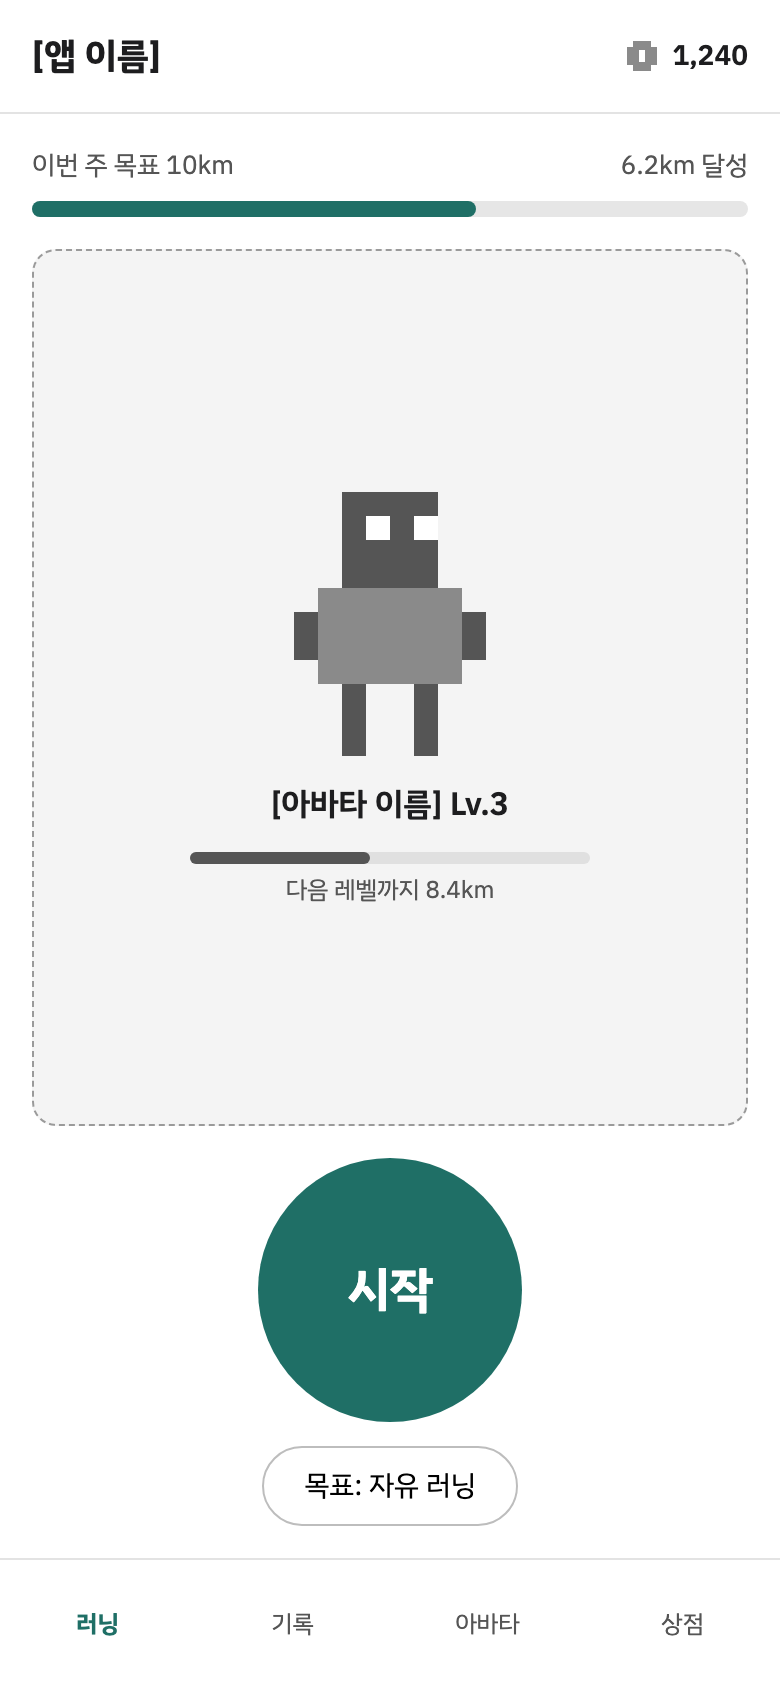
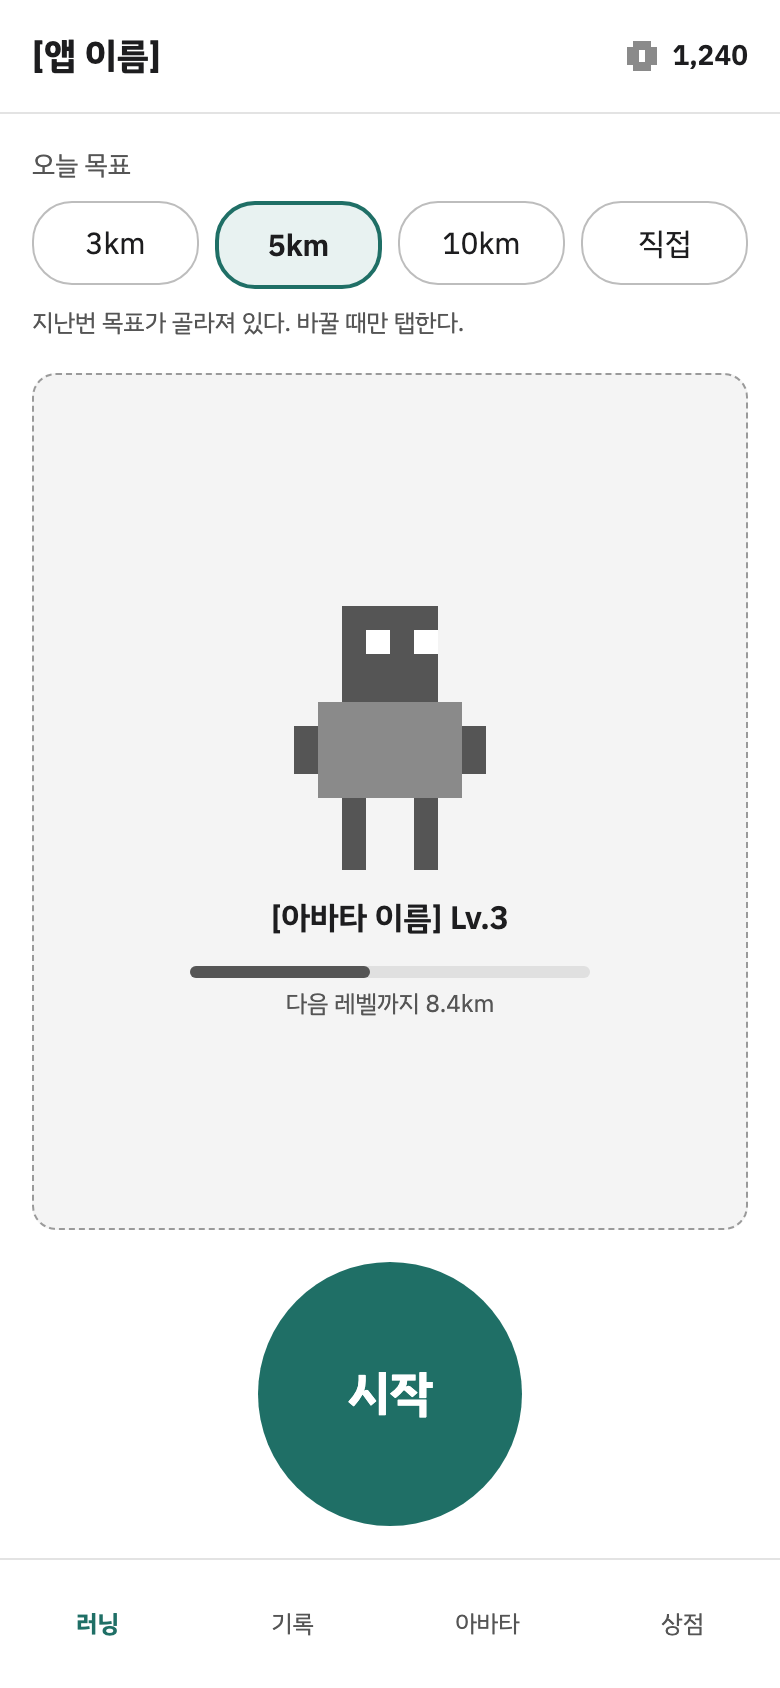
docs: 와이어프레임을 오늘 목표·달성 보너스 규칙에 맞춤
- 홈: 이번 주 목표 카드·자유 러닝 버튼 대신 오늘 목표 칩(3·5·10km·직접)
- 목표 선택: 거리·시간·자유 탭 대신 직접 입력 창(3~100km)
- 보상: 거리 보상과 달성 보너스 두 줄, 연속 러닝 줄 제거
- 업적: 주간 목표 배지를 목표 달성 배지로
- 시안 README 에 주간 목표 부분은 쓰지 않는다고 적음

Changed region(s): [[0.2462, 0.2773, 0.6462, 0.6161], [0.0308, 0.0924, 0.9538, 0.2156], [0.3077, 0.6777, 0.6769, 0.9242]]

diff --git a/design/wireframes/Goal.html b/design/wireframes/Goal.html
@@ -2,7 +2,7 @@
 <html lang="ko">
 <head>
 <meta charset="utf-8">
-<title>목표 선택</title>
+<title>목표 직접 입력</title>
 </head>
 <body>
 <link rel="preconnect" href="https://fonts.googleapis.com">
@@ -11,26 +11,24 @@
 body{margin:0;font-family:'IBM Plex Sans KR',system-ui,sans-serif;color:#1d1d1f}
 a{color:#1f6f66}a:hover{color:#174f49}
 </style>
-<div style="width: 390px; height: 844px; box-sizing: border-box; background: #8f8f8f; display: flex; flex-direction: column; justify-content: flex-end">
-  <div style="background: #ffffff; border-radius: 20px 20px 0 0; padding: 12px 20px 32px; display: flex; flex-direction: column; gap: 16px">
-    <div style="width: 40px; height: 4px; border-radius: 2px; background: #cccccc; align-self: center"></div>
-    <div style="font-size: 20px; font-weight: 700">오늘의 목표</div>
-    <div style="display: grid; grid-template-columns: repeat(3, minmax(0, 1fr)); gap: 8px">
-      <button type="button" style="height: 48px; border-radius: 8px; border: 2px solid #1f6f66; background: #e8f2f1; font-family: inherit; font-size: 15px; font-weight: 600">거리</button>
-      <button type="button" style="height: 48px; border-radius: 8px; border: 1px solid #bdbdbd; background: #ffffff; font-family: inherit; font-size: 15px">시간</button>
-      <button type="button" style="height: 48px; border-radius: 8px; border: 1px solid #bdbdbd; background: #ffffff; font-family: inherit; font-size: 15px">자유</button>
+<div style="width: 390px; height: 844px; box-sizing: border-box; background: #8f8f8f; display: flex; flex-direction: column; justify-content: center; padding: 0 28px">
+  <div style="background: #ffffff; border-radius: 20px; padding: 24px 20px 16px; display: flex; flex-direction: column; gap: 16px">
+    <div style="font-size: 20px; font-weight: 700">오늘 목표</div>
+    <div style="display: flex; align-items: baseline; gap: 8px; padding: 8px 0; border-bottom: 2px solid #1f6f66">
+      <span style="flex: 1; font-size: 40px; font-weight: 700; line-height: 1">7</span>
+      <span style="font-size: 16px; color: #555555">km</span>
     </div>
-    <div style="display: flex; flex-direction: column; align-items: center; gap: 4px; padding: 16px 0">
-      <div style="font-size: 64px; font-weight: 700; line-height: 1">5.00</div>
-      <div style="font-size: 14px; color: #555555">킬로미터</div>
-      <div style="font-size: 12px; color: #555555">숫자를 눌러 직접 입력, 좌우로 밀어 0.5km 단위 조절</div>
-    </div>
+    <div style="font-size: 12px; color: #555555">3~100km 사이 정수로 입력해 주세요</div>
     <div style="display: flex; align-items: center; gap: 8px; padding: 12px; border: 1px dashed #9a9a9a; border-radius: 8px; background: #f4f4f4; font-size: 13px">
       <svg width="20" height="20" viewBox="0 0 12 12" shape-rendering="crispEdges" aria-hidden="true"><rect x="3" y="1" width="6" height="10" fill="#8a8a8a"/><rect x="1" y="3" width="10" height="6" fill="#8a8a8a"/><rect x="5" y="4" width="2" height="4" fill="#ffffff"/></svg>
-      <span>목표 달성 시 코인 +[N]개, 경험치 +[N]</span>
+      <span>달린 만큼 경험치, 목표를 채우면 보너스 경험치 +35</span>
     </div>
-    <a href="InRun.html" style="height: 52px; border-radius: 26px; background: #1f6f66; color: #ffffff; display: flex; align-items: center; justify-content: center; font-weight: 700; text-decoration: none">이 목표로 시작</a>
+    <div style="display: flex; justify-content: flex-end; gap: 8px">
+      <a href="Main.html" style="height: 44px; padding: 0 20px; border-radius: 22px; color: #1d1d1f; display: flex; align-items: center; text-decoration: none">취소</a>
+      <a href="Main.html" style="height: 44px; padding: 0 20px; border-radius: 22px; background: #1f6f66; color: #ffffff; display: flex; align-items: center; font-weight: 700; text-decoration: none">저장</a>
+    </div>
   </div>
+  <div style="margin-top: 16px; font-size: 12px; color: #ffffff; text-align: center">홈의 "직접" 칩을 누르면 뜬다. 저장하면 칩에 7km 가 보인다.</div>
 </div>
 </body>
 </html>

diff --git a/design/wireframes/Main.html b/design/wireframes/Main.html
@@ -20,8 +20,14 @@ a{color:#1f6f66}a:hover{color:#174f49}
     </span>
   </div>
   <div style="padding: 16px 16px 0; display: flex; flex-direction: column; gap: 8px">
-    <div style="display: flex; justify-content: space-between; font-size: 13px; color: #555555"><span>이번 주 목표 10km</span><span>6.2km 달성</span></div>
-    <div style="height: 8px; background: #e6e6e6; border-radius: 4px"><div style="width: 62%; height: 8px; background: #1f6f66; border-radius: 4px"></div></div>
+    <div style="font-size: 13px; color: #555555">오늘 목표</div>
+    <div style="display: grid; grid-template-columns: repeat(4, minmax(0, 1fr)); gap: 8px">
+      <span style="height: 40px; border-radius: 20px; border: 1px solid #bdbdbd; background: #ffffff; color: #1d1d1f; display: flex; align-items: center; justify-content: center; font-size: 15px; text-decoration: none">3km</span>
+      <span style="height: 40px; border-radius: 20px; border: 2px solid #1f6f66; background: #e8f2f1; color: #1d1d1f; display: flex; align-items: center; justify-content: center; font-size: 15px; font-weight: 600; text-decoration: none">5km</span>
+      <span style="height: 40px; border-radius: 20px; border: 1px solid #bdbdbd; background: #ffffff; color: #1d1d1f; display: flex; align-items: center; justify-content: center; font-size: 15px; text-decoration: none">10km</span>
+      <a href="Goal.html" style="height: 40px; border-radius: 20px; border: 1px solid #bdbdbd; background: #ffffff; color: #1d1d1f; display: flex; align-items: center; justify-content: center; font-size: 15px; text-decoration: none">직접</a>
+    </div>
+    <div style="font-size: 12px; color: #555555">지난번 목표가 골라져 있다. 바꿀 때만 탭한다.</div>
   </div>
   <div style="flex: 1; display: flex; flex-direction: column; align-items: center; justify-content: center; gap: 12px; margin: 16px; border: 1px dashed #9a9a9a; border-radius: 12px; background: #f4f4f4">
     <svg width="144" height="144" viewBox="0 0 12 12" shape-rendering="crispEdges" role="img" aria-label="도트 아바타"><rect x="4" y="1" width="4" height="4" fill="#555555"/><rect x="5" y="2" width="1" height="1" fill="#ffffff"/><rect x="7" y="2" width="1" height="1" fill="#ffffff"/><rect x="3" y="5" width="6" height="4" fill="#8a8a8a"/><rect x="2" y="6" width="1" height="2" fill="#555555"/><rect x="9" y="6" width="1" height="2" fill="#555555"/><rect x="4" y="9" width="1" height="3" fill="#555555"/><rect x="7" y="9" width="1" height="3" fill="#555555"/></svg>
@@ -32,8 +38,7 @@ a{color:#1f6f66}a:hover{color:#174f49}
     </div>
   </div>
   <div style="display: flex; flex-direction: column; align-items: center; gap: 12px; padding-bottom: 16px">
-    <button type="button" style="width: 132px; height: 132px; border-radius: 66px; border: none; background: #1f6f66; color: #ffffff; font-size: 24px; font-weight: 700; font-family: inherit">시작</button>
-    <button type="button" style="height: 40px; padding: 0 20px; border-radius: 20px; border: 1px solid #bdbdbd; background: #ffffff; font-size: 14px; font-family: inherit">목표: 자유 러닝</button>
+    <a href="InRun.html" style="width: 132px; height: 132px; border-radius: 66px; background: #1f6f66; color: #ffffff; font-size: 24px; font-weight: 700; display: flex; align-items: center; justify-content: center; text-decoration: none">시작</a>
   </div>
   <nav style="height: 64px; display: grid; grid-template-columns: repeat(4, minmax(0, 1fr)); border-top: 1px solid #e3e3e3; font-size: 12px">
     <a href="Main.html" style="display: flex; align-items: center; justify-content: center; color: #1f6f66; font-weight: 700; text-decoration: none">러닝</a>

diff --git a/design/wireframes/Reward.html b/design/wireframes/Reward.html
@@ -19,13 +19,13 @@ a{color:#1f6f66}a:hover{color:#174f49}
   </div>
   <div style="font-size: 13px; color: #555555; text-align: center">새 외형 단계 해금 연출 (도트 애니메이션 [N]프레임)</div>
   <div style="width: 100%; display: flex; flex-direction: column; gap: 10px">
-    <div style="display: flex; justify-content: space-between; padding: 14px 16px; border: 1px solid #e3e3e3; border-radius: 10px"><span>달린 거리 5.02km</span><span style="font-weight: 700">경험치 +50</span></div>
-    <div style="display: flex; justify-content: space-between; padding: 14px 16px; border: 1px solid #e3e3e3; border-radius: 10px"><span>목표 5km 달성</span><span style="font-weight: 700">코인 +30</span></div>
-    <div style="display: flex; justify-content: space-between; padding: 14px 16px; border: 1px solid #e3e3e3; border-radius: 10px"><span>3일 연속 러닝</span><span style="font-weight: 700">코인 +10</span></div>
+    <div style="display: flex; justify-content: space-between; padding: 14px 16px; border: 1px solid #e3e3e3; border-radius: 10px"><span>달린 거리 5.02km</span><span style="font-weight: 700; text-align: right">경험치 +50<br>코인 +25</span></div>
+    <div style="display: flex; justify-content: space-between; padding: 14px 16px; border: 1px solid #e3e3e3; border-radius: 10px"><span>목표 5km 달성 보너스</span><span style="font-weight: 700; text-align: right">경험치 +25<br>코인 +25</span></div>
+    <div style="font-size: 12px; color: #555555; text-align: center">목표를 못 채우면 보너스 줄 대신 "목표 10km까지 4.98km 남았어요" 를 보인다</div>
   </div>
   <div style="display: flex; align-items: center; gap: 8px; font-size: 18px; font-weight: 700">
     <svg width="24" height="24" viewBox="0 0 12 12" shape-rendering="crispEdges" aria-hidden="true"><rect x="3" y="1" width="6" height="10" fill="#8a8a8a"/><rect x="1" y="3" width="10" height="6" fill="#8a8a8a"/><rect x="5" y="4" width="2" height="4" fill="#ffffff"/></svg>
-    보유 코인 1,280
+    보유 코인 1,290
   </div>
   <div style="flex: 1"></div>
   <div style="width: 100%; display: grid; grid-template-columns: repeat(2, minmax(0, 1fr)); gap: 8px">

diff --git a/design/wireframes/Badges.html b/design/wireframes/Badges.html
@@ -27,7 +27,7 @@ a{color:#1f6f66}a:hover{color:#174f49}
     <div style="display: flex; flex-direction: column; align-items: center; gap: 4px; text-align: center"><div style="width: 56px; height: 56px; border-radius: 28px; background: #1f6f66"></div><span style="font-size: 11px">첫 러닝</span></div>
     <div style="display: flex; flex-direction: column; align-items: center; gap: 4px; text-align: center"><div style="width: 56px; height: 56px; border-radius: 28px; background: #1f6f66"></div><span style="font-size: 11px">첫 5km</span></div>
     <div style="display: flex; flex-direction: column; align-items: center; gap: 4px; text-align: center"><div style="width: 56px; height: 56px; border-radius: 28px; background: #1f6f66"></div><span style="font-size: 11px">3일 연속</span></div>
-    <div style="display: flex; flex-direction: column; align-items: center; gap: 4px; text-align: center"><div style="width: 56px; height: 56px; border-radius: 28px; background: #1f6f66"></div><span style="font-size: 11px">주간 목표 ×3</span></div>
+    <div style="display: flex; flex-direction: column; align-items: center; gap: 4px; text-align: center"><div style="width: 56px; height: 56px; border-radius: 28px; background: #1f6f66"></div><span style="font-size: 11px">목표 달성 ×10</span></div>
     <div style="display: flex; flex-direction: column; align-items: center; gap: 4px; text-align: center; color: #8a8a8a"><div style="width: 56px; height: 56px; border-radius: 28px; border: 1px dashed #9a9a9a; background: #f4f4f4"></div><span style="font-size: 11px">첫 10km</span></div>
     <div style="display: flex; flex-direction: column; align-items: center; gap: 4px; text-align: center; color: #8a8a8a"><div style="width: 56px; height: 56px; border-radius: 28px; border: 1px dashed #9a9a9a; background: #f4f4f4"></div><span style="font-size: 11px">새벽 러너</span></div>
     <div style="display: flex; flex-direction: column; align-items: center; gap: 4px; text-align: center; color: #8a8a8a"><div style="width: 56px; height: 56px; border-radius: 28px; border: 1px dashed #9a9a9a; background: #f4f4f4"></div><span style="font-size: 11px">월 100km</span></div>

diff --git a/docs/screens.md b/docs/screens.md
@@ -2,7 +2,7 @@
 
 > MVP 화면 6개의 역할과 이동 흐름. 배치는 [와이어프레임](../design/wireframes/README.md)을 따른다.
 
-와이어프레임은 화면 구성을 정하는 콘티다. 실제 UI 디자인은 기능 개발 뒤에 적용한다. 와이어프레임에는 후속 범위 화면(목표 선택, 보상, 상점, 업적)도 함께 있다.
+와이어프레임은 화면 구성을 정하는 콘티다. 실제 UI 디자인은 기능 개발 뒤에 적용한다. 와이어프레임에는 후속 범위 화면(보상의 코인, 상점, 업적)도 함께 있다.
 
 ## MVP 화면
 
@@ -10,7 +10,7 @@
 
 | # | 화면 | 핵심 기능 | 요구사항 | 와이어프레임 |
 | --- | --- | --- | --- | --- |
-| 1 | 홈 | 아바타·레벨·표정, 오늘 목표 거리 고르기(3·5·10km·직접 입력), 시작 버튼 | F1, F6, F7, F18 | 1 홈 + 2 목표 선택 |
+| 1 | 홈 | 아바타·레벨·표정, 오늘 목표 거리 고르기(3·5·10km·직접 입력), 시작 버튼 | F1, F6, F7, F18 | 1 홈 + 2 목표 직접 입력 |
 | 2 | 러닝 중 | 거리 크게, 목표 진행·달성 표시, 평균 페이스·시간, 달리는 아바타, 일시정지 버튼 | F1, F2, F6, F8 | 3 러닝 중 |
 | 3 | 일시정지 | 지표 요약, 길게 눌러 종료, 재개 | F1 | 4 일시정지 (지도 제외) |
 | 4 | 러닝 요약 | 거리·페이스·시간, 목표 달성·미달, 경로 선, 구간 표, 거리 경험치·달성 보너스·레벨업 연출, 끝부분 잘라내기 | F3, F6, F7, F16 | 5 러닝 요약 + 6 보상 |

diff --git a/HANDOFF.md b/HANDOFF.md
@@ -13,6 +13,7 @@
   - 시속 30km 초과가 30초(점 시각 기준) 이어지면 자동 종료
   - 테스트 557건, 분석 0, 디버그 APK 성공, 에뮬레이터 E2E 통과(빠른 이동 자동 종료만 에뮬레이터 한계로 미확인)
   - 구현 화면 스크린샷: `design/mockups/phase-3.5-screens/`
+  - 와이어프레임 홈·목표 직접 입력·보상·업적을 결정 0018 규칙으로 맞춤(`design/wireframes/`). 편집용 claude.ai 캔버스는 예전 그대로
 - **페이즈 1~3**: 구현 완료, 실기기 확인은 페이즈 7 에서 Android·iPhone 함께(결정 0017)
 - 로드맵: 3.5 → 4 보상 → 5 확장 → 6 디자인 완성(6-1 캐릭터, 6-2 UI) → 7 iOS 확장·실기기 확인 → 8 동시 출시
 

diff --git a/design/mockups/README.md b/design/mockups/README.md
@@ -6,6 +6,7 @@
 - 시안 속 도트 아바타는 자리표시다. 실제 캐릭터는 `design/character/` (작업 3·8).
 - 문구는 현재 앱 그대로다. 아래 "달라지는 점" 만 새로 생긴다.
 - `오늘 목표` 선택·`목표 진행` 줄·`목표 결과` 줄은 새 시안 없이 구현했다. 디자인 승인을 기다린다. 구현 화면 스크린샷은 `phase-3.5-screens/`(홈, 러닝 중, 목표 달성, 요약 달성·미달, 첫 실행 2장)에 있다.
+- `Main`·`Summary`·`Settings` 시안 원본에 남은 `이번 주 목표` 카드·줄·설정 항목은 쓰지 않는다(결정 0018). 해당 화면은 아래 "달라지는 점" 과 스크린샷을 따른다.
 
 ## 공통
 

diff --git a/design/wireframes/README.md b/design/wireframes/README.md
@@ -6,7 +6,7 @@
 - `png/` — 화면 이미지 (390×844, 2배 해상도).
 - 편집용 캔버스: [claude.ai 디자인 캔버스](https://claude.ai/artifact/GGgUf6VGKuK3AkSRxrEnoQ)
 
-| 1 홈 | 2 목표 선택 | 3 러닝 중 | 4 일시정지 | 5 러닝 요약 |
+| 1 홈 | 2 목표 직접 입력 | 3 러닝 중 | 4 일시정지 | 5 러닝 요약 |
 | --- | --- | --- | --- | --- |
 | ![](png/01-main.png) | ![](png/02-goal.png) | ![](png/03-inrun.png) | ![](png/04-paused.png) | ![](png/05-summary.png) |
 
